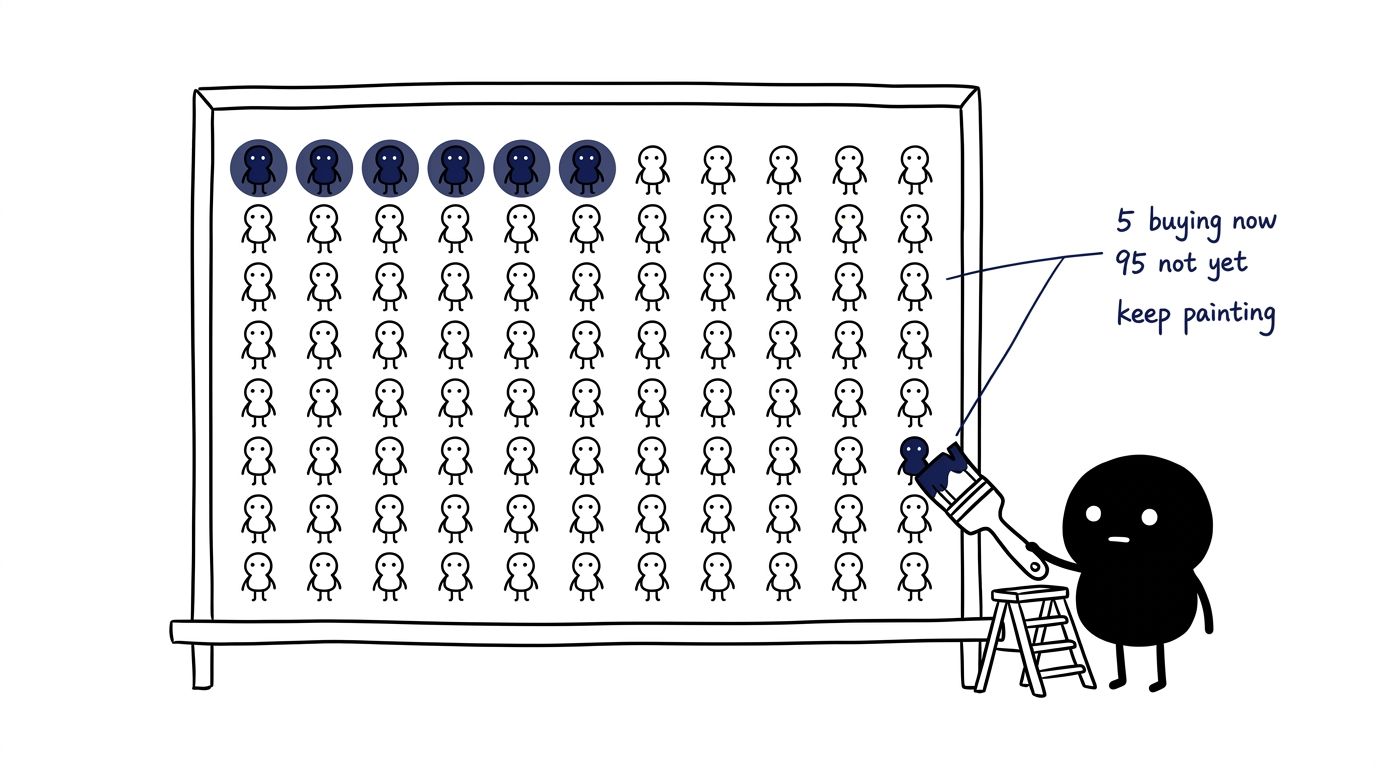
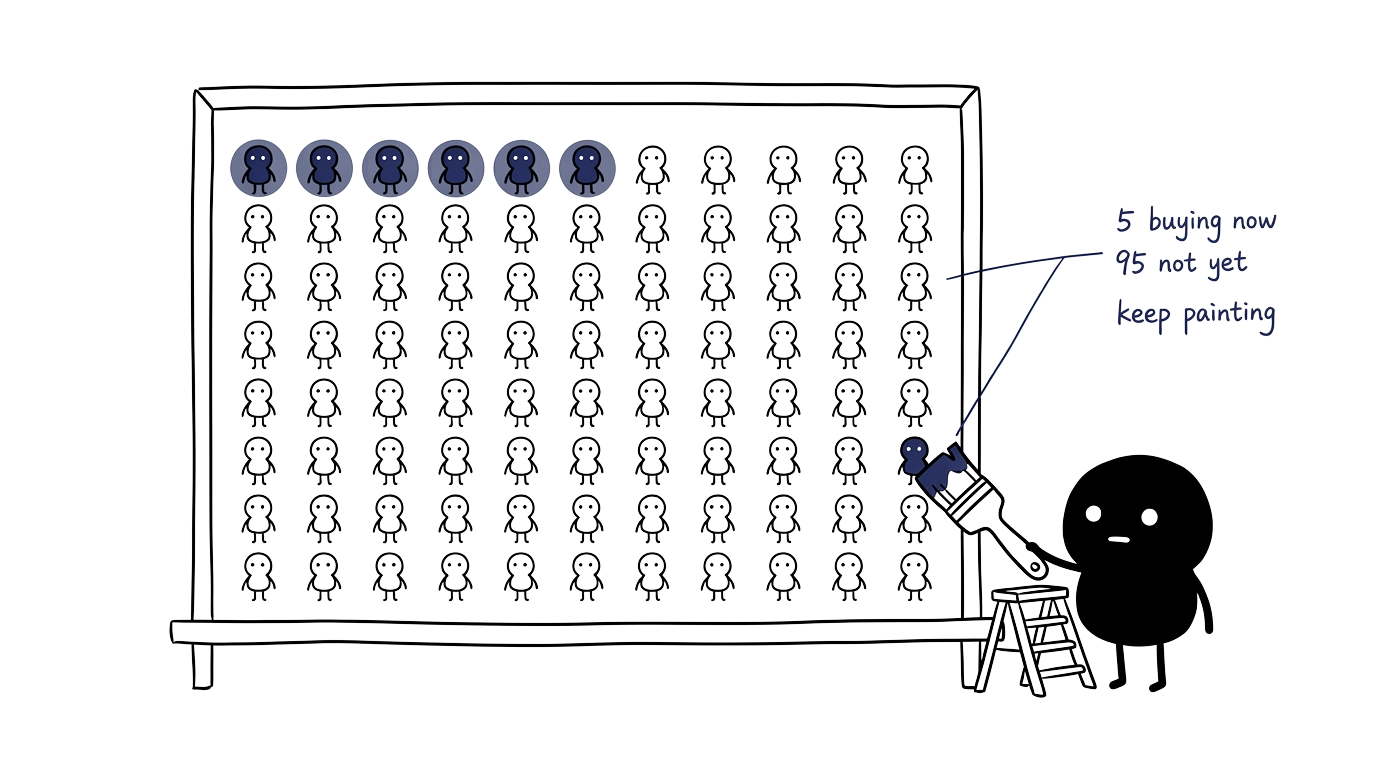
Marketing plan: transparent illustrations, inverted white ink on navy slides

diff --git a/marketing-plan-2026/index.html b/marketing-plan-2026/index.html
@@ -158,7 +158,7 @@ ul.points li span{color:#5B6880;display:block;font-size:.92em;margin-top:4px}
 .split .col-text{min-width:0}
 figure.illo-main{margin:0;align-self:center}
 figure.illo-main img{width:100%;height:auto;max-height:60vh;object-fit:contain;display:block}
-.slide.dark figure.illo-main{background:#fff;padding:12px;border-radius:14px}
+.slide.dark figure.illo-main{background:none;padding:0}
 .split table{font-size:clamp(.78rem,1.02vw,.95rem)}
 .split th,.split td{padding-left:9px;padding-right:9px}
 .title-illo{margin-top:24px}
@@ -209,7 +209,7 @@ figure.illo-main img{width:100%;height:auto;max-height:60vh;object-fit:contain;d
       <div class="ask">
         <strong>The ask today</strong>
         <p>Endorse three moves and the direction.<br>Budget and sequencing follow once the direction is agreed.</p>
-        <figure class="illo-main title-illo"><img src="illos/01-title.png" alt="Hand-drawn illustration for this slide"></figure>
+        <figure class="illo-main title-illo"><img src="illos/01-title-inv.png" alt="Hand-drawn illustration for this slide"></figure>
       </div>
     </div>
     <div class="meta">aba TRADES &middot; prepared for Paul by Josh and Harley</div>
@@ -305,7 +305,7 @@ figure.illo-main img{width:100%;height:auto;max-height:60vh;object-fit:contain;d
     </div>
     <p class="src" style="margin-top:34px">Michael Porter, Competitive Strategy. Neither generic strategy is currently declared, which is why the market treats us as one of several interchangeable local trades.</p>
   </div>
-    <figure class="illo-main"><img src="illos/05-porter.png" alt="Hand-drawn illustration for this slide"></figure>
+    <figure class="illo-main"><img src="illos/05-porter-inv.png" alt="Hand-drawn illustration for this slide"></figure>
   </div>
   <div class="brandmark">aba TRADES</div><div class="pagenum">05</div>
 </section>
@@ -355,7 +355,7 @@ figure.illo-main img{width:100%;height:auto;max-height:60vh;object-fit:contain;d
     </ul>
     <p class="src">Job-level gross profit on completed jobs, 1 July to 14 October 2026: 2,508 jobs, $3.22m revenue, 97 percent matched to a ServiceTitan job type. Same GP method as slide 2. Membership status is not populated on job records, so member share of these jobs cannot be measured from this data.</p>
   </div>
-    <figure class="illo-main"><img src="illos/07-job-profit.png" alt="Hand-drawn illustration for this slide"></figure>
+    <figure class="illo-main"><img src="illos/07-job-profit-inv.png" alt="Hand-drawn illustration for this slide"></figure>
   </div>
   <div class="brandmark">aba TRADES</div><div class="pagenum">07</div>
 </section>
@@ -559,7 +559,7 @@ figure.illo-main img{width:100%;height:auto;max-height:60vh;object-fit:contain;d
     </ul>
     <p class="src">Paid spend from the group performance feed. Marketing and advertising figure from the 2026-27 Strategy Session, Xero, 12 months to 30 September 2026. Booking rate from ServiceTitan telecom, 7,360 inbound calls July to September 2026.</p>
   </div>
-    <figure class="illo-main"><img src="illos/15-one-door.png" alt="Hand-drawn illustration for this slide"></figure>
+    <figure class="illo-main"><img src="illos/15-one-door-inv.png" alt="Hand-drawn illustration for this slide"></figure>
   </div>
   <div class="brandmark">aba TRADES</div><div class="pagenum">15</div>
 </section>
